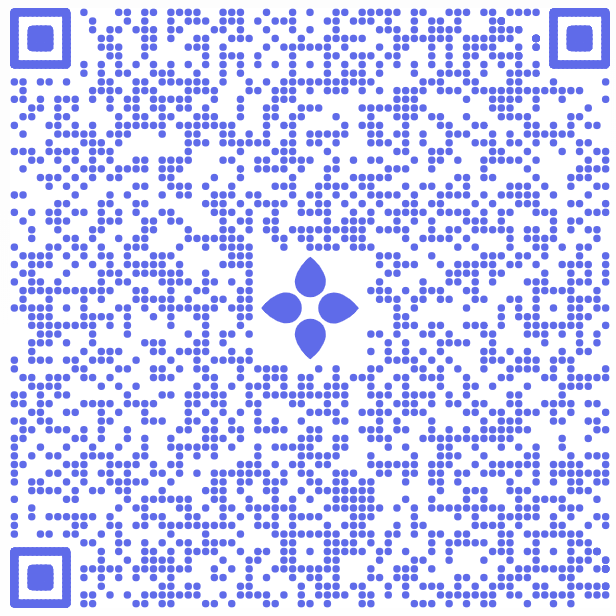
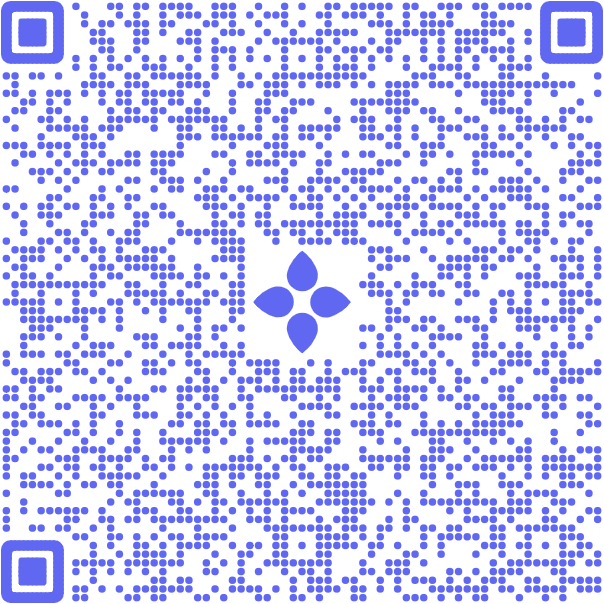
Improve eye rendering (#26)
* Improve eye rendering

* Improve eye rounding

diff --git a/src/generateRequestQRCode.ts b/src/generateRequestQRCode.ts
@@ -16,7 +16,7 @@ type CellInfo = {
   top: number
   left: number
   size: number
-  fillStyle: string
+  color: string
 }
 
 const makeDot = (ctx: CanvasRenderingContext2D, info: CellInfo) => {
@@ -24,12 +24,116 @@ const makeDot = (ctx: CanvasRenderingContext2D, info: CellInfo) => {
   const centerY = info.top + info.size / 2
   const radius = (info.size / 2) * 0.85
 
+  ctx.save()
   ctx.beginPath()
+
+  ctx.fillStyle = info.color
+
   ctx.arc(centerX, centerY, radius, 0, 2 * Math.PI, false)
-  ctx.fillStyle = info.fillStyle
+  ctx.fill()
+
+  ctx.closePath()
+  ctx.restore()
+}
+
+const makeRect = (ctx: CanvasRenderingContext2D, color: string, rect: {x: number; y: number; w: number; h: number}) => {
+  ctx.save()
+  ctx.beginPath()
+
+  ctx.fillStyle = color
+  ctx.strokeStyle = color
+  ctx.lineWidth = 1
+  ctx.lineJoin = 'round'
+  ctx.lineCap = 'round'
+
+  ctx.rect(rect.x, rect.y, rect.w, rect.h)
+  ctx.fill()
+  ctx.stroke()
+
+  ctx.closePath()
+  ctx.restore()
+}
+
+enum CornerType {
+  none,
+  topLeft,
+  topRight,
+  bottomRight,
+  bottomLeft,
+}
+
+const makeCorner = (ctx: CanvasRenderingContext2D, info: CellInfo, type: CornerType, part: EyePart) => {
+  const outerRadius = part === EyePart.outer ? info.size : info.size / 4
+  const innerRadius = outerRadius / 2
+
+  const {top, left} = info
+  const bottom = top + info.size
+  const right = left + info.size
+  const halfSize = info.size / 2
+
+  ctx.save()
+  ctx.beginPath()
+
+  ctx.fillStyle = info.color
+  ctx.strokeStyle = info.color
+  ctx.lineWidth = 1
+  ctx.lineJoin = 'round'
+  ctx.lineCap = 'round'
+
+  switch (type) {
+    case CornerType.topLeft:
+      ctx.moveTo(left, bottom)
+      ctx.arcTo(left, top, right, top, outerRadius)
+      ctx.lineTo(right, top)
+      ctx.lineTo(right, bottom)
+      ctx.lineTo(right + halfSize, bottom)
+      ctx.arcTo(right, bottom, right, bottom + 5, innerRadius)
+      ctx.lineTo(right, bottom + 5)
+      ctx.lineTo(right, bottom)
+      ctx.lineTo(left, bottom)
+      break
+    case CornerType.topRight:
+      ctx.moveTo(left, bottom)
+      ctx.lineTo(left, top)
+      ctx.arcTo(right, top, right, bottom, outerRadius)
+      ctx.lineTo(right, bottom)
+      ctx.lineTo(left, bottom)
+      ctx.lineTo(left, bottom + halfSize)
+      ctx.arcTo(left, bottom, left - halfSize, bottom, innerRadius)
+      ctx.lineTo(left - halfSize, bottom)
+      ctx.lineTo(left, bottom)
+      break
+    case CornerType.bottomRight:
+      ctx.moveTo(left, bottom)
+      ctx.lineTo(left, top)
+      ctx.lineTo(left - halfSize, top)
+      ctx.arcTo(left, top, left, top - halfSize, innerRadius)
+      ctx.lineTo(left, top - halfSize)
+      ctx.lineTo(left, top)
+      ctx.lineTo(right, top)
+      ctx.arcTo(right, bottom, left, bottom, outerRadius)
+      ctx.lineTo(left, bottom)
+      break
+    case CornerType.bottomLeft:
+      ctx.moveTo(left, top)
+      ctx.lineTo(right, top)
+      ctx.lineTo(right, top - halfSize)
+      ctx.arcTo(right, top, right + halfSize, top, innerRadius)
+      ctx.lineTo(right + halfSize, top)
+      ctx.lineTo(right, top)
+      ctx.lineTo(right, bottom)
+      ctx.arcTo(left, bottom, left, top, outerRadius)
+      ctx.lineTo(left, top)
+      break
+    default:
+      break
+  }
 
   ctx.fill()
+  ctx.stroke()
+
   ctx.closePath()
+  ctx.restore()
 }
 
 class ConnectionType {
@@ -40,36 +144,52 @@ class ConnectionType {
   static readonly bottom = 1 << 4
 }
 
-const makeEyeBit = (ctx: CanvasRenderingContext2D, info: CellInfo, connectionType: number) => {
+enum EyePart {
+  inner,
+  outer,
+}
+
+const makeEyeBit = (ctx: CanvasRenderingContext2D, info: CellInfo, connectionType: number, part: EyePart) => {
   const centerX = info.left + info.size / 2
   const centerY = info.top + info.size / 2
-  const halfSize = info.size % 2 === 0 ? info.size / 2 : Math.ceil(info.size / 2)
-
-  ctx.fillStyle = info.fillStyle
+  const halfSize = info.size / 2
 
   const isLeft = (connectionType & ConnectionType.left) === ConnectionType.left
   const isRight = (connectionType & ConnectionType.right) === ConnectionType.right
   const isTop = (connectionType & ConnectionType.top) === ConnectionType.top
   const isBottom = (connectionType & ConnectionType.bottom) === ConnectionType.bottom
 
-  if (isLeft) {
-    ctx.fillRect(centerX, info.top, halfSize, info.size)
-  }
-  if (isRight) {
-    ctx.fillRect(info.left, info.top, halfSize, info.size)
-  }
-  if (isTop) {
-    ctx.fillRect(info.left, info.top, info.size, halfSize)
-  }
-  if (isBottom) {
-    ctx.fillRect(info.left, centerY, info.size, halfSize)
-  }
   if (isLeft !== isRight && isTop !== isBottom) {
-    // Only add a dot to corner pieces
-    makeDot(ctx, info)
-  }
+    let cornerType = CornerType.none
 
-  ctx.fill()
+    if (isBottom && isRight) {
+      cornerType = CornerType.topRight
+    } else if (isBottom && isLeft) {
+      cornerType = CornerType.topLeft
+    } else if (isTop && isRight) {
+      cornerType = CornerType.bottomRight
+    } else if (isTop && isLeft) {
+      cornerType = CornerType.bottomLeft
+    }
+
+    makeCorner(ctx, info, cornerType, part)
+  } else {
+    if (isLeft) {
+      makeRect(ctx, info.color, {x: centerX, y: info.top, w: halfSize, h: info.size})
+    }
+
+    if (isRight) {
+      makeRect(ctx, info.color, {x: info.left, y: info.top, w: halfSize, h: info.size})
+    }
+
+    if (isTop) {
+      makeRect(ctx, info.color, {x: info.left, y: info.top, w: info.size, h: halfSize})
+    }
+
+    if (isBottom) {
+      makeRect(ctx, info.color, {x: info.left, y: centerY, w: info.size, h: halfSize})
+    }
+  }
 }
 
 const generateRequestQRCode = (canvas: HTMLCanvasElement, data: RequestData, options: Partial<Options>) => {
@@ -86,13 +206,15 @@ const generateRequestQRCode = (canvas: HTMLCanvasElement, data: RequestData, opt
   const scale = window.devicePixelRatio || 1
   const cells: [boolean[]] = qr.modules
   const cellSize = size / cells.length
-  canvas.height = canvas.width = size * scale
+  // Add 4 to account for:
+  // - The 1 extra on top and left of each cell
+  // - The 1 extra from the border on top/left
+  canvas.height = canvas.width = size * scale + 4
   canvas.style.height = canvas.style.width = `${size}px`
   canvas.style.padding = (100 * padding) / size + '%'
   ctx.scale(scale, scale)
 
-  ctx.fillStyle = bgColor
-  ctx.fillRect(0, 0, size, size)
+  makeRect(ctx, bgColor, {x: 0, y: 0, w: size, h: size})
 
   cells.forEach((row: boolean[], rowIndex: number) => {
     row.forEach((cell: boolean, cellIndex: number) => {
@@ -103,10 +225,11 @@ const generateRequestQRCode = (canvas: HTMLCanvasElement, data: RequestData, opt
         const isBottomLeftEye = cellIndex <= 7 && rowIndex >= row.length - 7
         const isEye = isTopLeftEye || isTopRightEye || isBottomLeftEye
 
+        // Add an extra 1 to the top/left so the border isn't cut off by the edge of the canvas
         const cellInfo = {
-          fillStyle: fgColor,
-          left: cellIndex * cellSize,
-          top: rowIndex * cellSize,
+          color: fgColor,
+          left: cellIndex * cellSize + 1,
+          top: rowIndex * cellSize + 1,
           size: cellSize,
         }
 
@@ -130,7 +253,15 @@ const generateRequestQRCode = (canvas: HTMLCanvasElement, data: RequestData, opt
             connectionType = connectionType | ConnectionType.left
           }
 
-          makeEyeBit(ctx, cellInfo, connectionType)
+          const isInnerEyeX =
+            (cellIndex >= 2 && cellIndex <= 4) || (cellIndex >= cells.length - 7 && cellIndex <= cells.length)
+          const isInnerEyeY =
+            (rowIndex >= 2 && rowIndex <= 4) || (rowIndex >= cells.length - 5 && rowIndex <= cells.length - 3)
+          const isInnerEye = isInnerEyeX && isInnerEyeY
+
+          const eyePart = isInnerEye ? EyePart.inner : EyePart.outer
+
+          makeEyeBit(ctx, cellInfo, connectionType, eyePart)
         } else {
           makeDot(ctx, cellInfo)
         }
@@ -152,10 +283,12 @@ const generateRequestQRCode = (canvas: HTMLCanvasElement, data: RequestData, opt
       const defaultWidth = numberOfCellsToCover * cellSize + (addExtra ? cellSize : 0)
       const dwidth = options.logoWidth || defaultWidth
       const dheight = options.logoHeight || dwidth
-      const dx = (size - dwidth) / 2
-      const dy = (size - dheight) / 2
+      // Add 1 to accomodate for the 1 shift of the cells
+      const dx = (size - dwidth) / 2 + 1
+      const dy = (size - dheight) / 2 + 1
       image.width = dwidth
       image.height = dheight
+
       ctx.save()
       ctx.globalAlpha = options.logoOpacity || 1
       ctx.drawImage(image, dx, dy, dwidth, dheight)

diff --git a/CHANGELOG.md b/CHANGELOG.md
@@ -1,3 +1,9 @@
+## Unreleased
+
+**Improvements**:
+
+- Improve "eye" rendering
+
 ## 2.1.1 (HOTFIX)
 
 **Improvements**:
